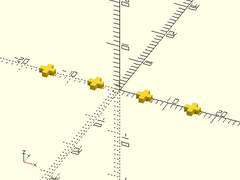
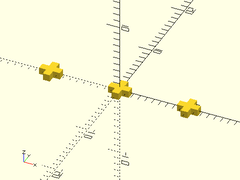
Fixed spread example images.

diff --git a/transforms.scad.md b/transforms.scad.md
@@ -741,7 +741,7 @@ Argument        | What it does
 
 **Example 6**:
 
-    spread(l=30, n=4) {
+    spread(l=20, n=3) {
         cube(size=[1,3,1],center=true);
         cube(size=[3,1,1],center=true);
     }
@@ -796,7 +796,7 @@ Argument        | What it does
 
 **Example 5**:
 
-    xspread(30, n=4) {
+    xspread(10, n=3) {
         cube(size=[1,3,1],center=true);
         cube(size=[3,1,1],center=true);
     }
@@ -851,7 +851,7 @@ Argument        | What it does
 
 **Example 5**:
 
-    yspread(30, n=4) {
+    yspread(10, n=3) {
         cube(size=[1,3,1],center=true);
         cube(size=[3,1,1],center=true);
     }
@@ -906,7 +906,7 @@ Argument        | What it does
 
 **Example 5**:
 
-    zspread(30, n=4) {
+    zspread(10, n=3) {
         cube(size=[1,3,1],center=true);
         cube(size=[3,1,1],center=true);
     }
